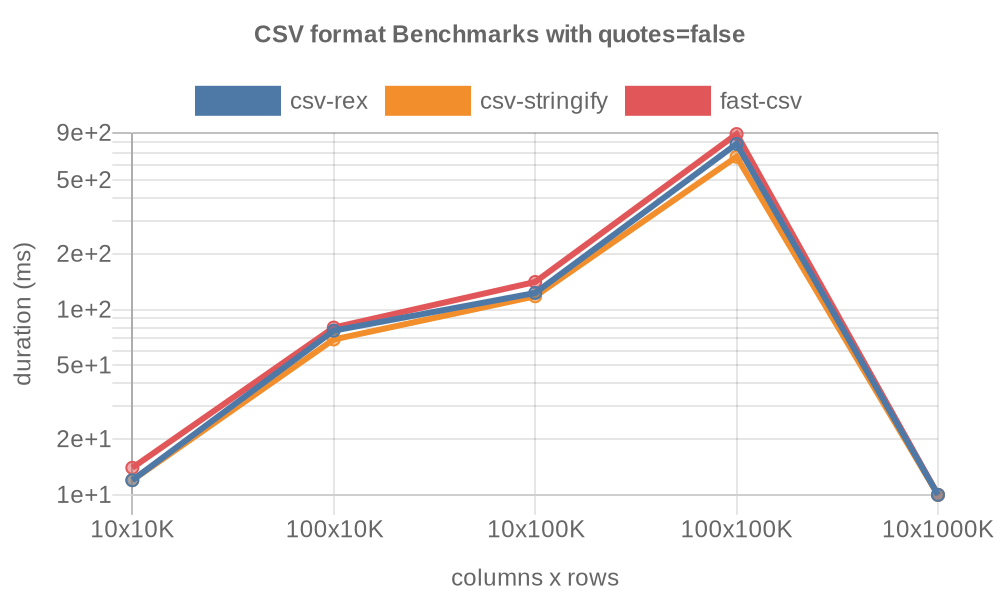
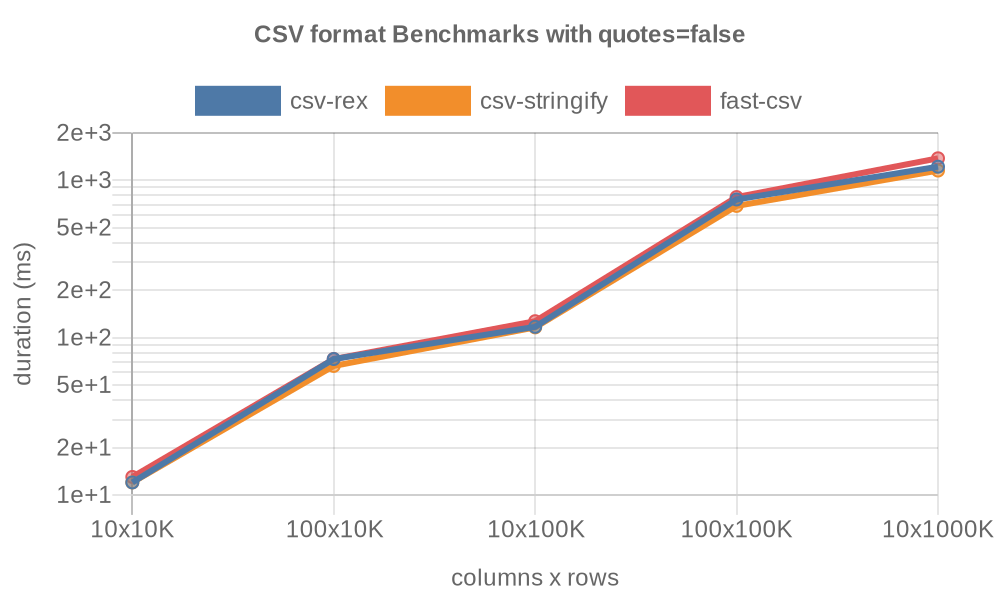
fix: graph inputs

Changed region(s): [[0.062, 0.21, 0.961, 0.81], [0.93, 0.81, 0.961, 0.84]]

diff --git a/index.js b/index.js
@@ -98,7 +98,9 @@ const run = async (sources, type, quotes = false) => {
       fill: false,
       data: []
     }
-    const {parse, format} = await import(`./packages/${source}/index.js`)
+    const engine = await import(`./packages/${source}/index.js`)
+    if (!engine[type]) continue
+    
     for (const { rows, columns, cycles } of tests) {
       let stream
       if (type === 'parse') {
@@ -106,25 +108,25 @@ const run = async (sources, type, quotes = false) => {
         await generateCSVFile({ readableFileName, columns, rows, quotes });
         stream = async () => pipeline([
           createReadStream(readableFileName),
-          parse()
+          engine.parse()
         ])
       } else if (type === 'format') {
         const arr = generateCSVArray({ columns, rows, quotes });
         stream = async () => pipeline([
           createReadableStream(arr),
-          format()
+          engine.format()
         ])
         //const writableFileName = join(tmpdir(), `${columns}x${rows}_${quotes ? 'quoted' : 'slim'}.csv`)
       }
       
       // Benchmark     
       const result = await benchmark(source, stream, { cycles, columns, rows });
-      dataset.data.push(result.toLocaleString())
+      dataset.data.push(result)
     }
     if (chart.data.datasets.length < 5) { 
       chart.data.datasets.push(dataset)
     }
-    table += `| **${dataset.label}** | ${dataset.data.join('ms | ')}ms \n`
+    table += `| **${dataset.label}** | ${dataset.data.map(result => result.toLocaleString()).join('ms | ')}ms \n`
   }
   
   // Save results
@@ -156,16 +158,54 @@ const run = async (sources, type, quotes = false) => {
 
 
 // Update README packages table
+const diff = (d) => {
+  const msPerMinute = 60 * 1000
+  const msPerHour = msPerMinute * 60
+  const msPerDay = msPerHour * 24
+  const msPerWeek = msPerDay * 7
+  const msPerMonth = msPerDay * 30
+  const msPerYear = msPerDay * 365.25
+  const elapsed = d - new Date()
+  const absElapsed = Math.abs(elapsed)
+  // if (absElapsed < msPerMinute) {
+  //   return [Math.round(elapsed / 1000), 'second']
+  // }
+  // if (absElapsed < msPerHour) {
+  //   return [Math.round(elapsed / msPerMinute), 'minute']
+  // }
+  // if (absElapsed < msPerDay) {
+  //   return [Math.round(elapsed / msPerHour), 'hour']
+  // }
+  if (absElapsed < msPerWeek * 2) {
+    return [Math.round(elapsed / msPerDay), 'day']
+  }
+  if (absElapsed < msPerMonth) {
+    return [Math.round(elapsed / msPerWeek), 'week']
+  }
+  if (absElapsed < msPerYear) {
+    return [Math.round(elapsed / msPerMonth), 'month']
+  }
+  return [Math.round(elapsed / msPerYear), 'year']
+}
+const rtf = new Intl.RelativeTimeFormat('en', {
+  localeMatcher: 'best fit',
+  numeric: 'always',
+  style: 'long'
+})
 const {dependencies} = await readFile(join(__dirname, './package.json')).then(data => JSON.parse(data))
-let table = `| Package | Version | Parse | Format \n`
-   table += `|---------|---------|-------|--------\n`
+let table = `| Package | Version | Published | Parse | Format \n`
+   table += `|---------|---------|-----------|-------|--------\n`
    const packages = new Set([...parseSources, ...formatSources])
    for (const pkg of packages) {
-      const {version} = await fetch(`https://registry.npmjs.org/${pkg}/latest`).then(res => res.json())
+      const repo = await fetch(`https://registry.npmjs.org/${pkg}`).then(res => res.json())
+      const version = repo['dist-tags'].latest
+      const created = new Date(repo.time[version])
+      const [value, unit] = diff(created)
+      const published = rtf.format(value, unit)
        const {parse, format} = await import(`./packages/${pkg}/index.js`)
        const {downloads} = await fetch(`https://api.npmjs.org/downloads/point/last-week/${pkg}`).then(res => res.json())
-     console.log(`${pkg}@${version} ${downloads.toLocaleString()}/week`)
-     table += `| [${pkg}](https://www.npmjs.com/package/${pkg}) | ${version} | ${!!parse ? 'Yes' : ''} | ${!!format ? 'Yes' : ''} \n`
+     console.log(`${pkg}@${version} published ${published}, ${downloads.toLocaleString()}/week`)
+     table += `| [${pkg}](https://www.npmjs.com/package/${pkg}) | ${version} | ${published} | ${!!parse ? 'Yes' : ''} | ${!!format ? 'Yes' : ''} \n`
    }
 await readFile(join(__dirname, `README.md`), { encoding: 'utf8' })
 .then(data => {

diff --git a/packages/papaparse/index.js b/packages/papaparse/index.js
@@ -1,6 +1,6 @@
 import Papa from "papaparse";
 
 export const parse = () => Papa.parse(Papa.NODE_STREAM_INPUT, {delimiter:",", newline:"\r\n", quoteChar:'"', header: false})
-export const format = () => Papa.unparse(Papa.NODE_STREAM_INPUT)
+export const format = false // () => Papa.unparse(Papa.NODE_STREAM_OUTPUT)
 
 export default { parse, format }

diff --git a/README.md b/README.md
@@ -3,15 +3,15 @@
 Benchmarks of popular CSV parsers and formatters:
 
 <!-- packages -->
-| Package | Version | Downloads | Parse | Format 
+| Package | Version | Published | Parse | Format 
 |---------|---------|-----------|-------|--------
-| [csv-rex](https://www.npmjs.com/package/csv-rex) | 0.3.0 | 36/week | Yes | Yes 
-| [papaparse](https://www.npmjs.com/package/papaparse) | 5.3.2 | 1,261,794/week | Yes | Yes 
-| [csv-parser](https://www.npmjs.com/package/csv-parser) | 3.0.0 | 630,666/week | Yes | Yes 
-| [csvtojson](https://www.npmjs.com/package/csvtojson) | 2.0.10 | 627,255/week | Yes |  
-| [csv-parse](https://www.npmjs.com/package/csv-parse) | 5.3.0 | 2,737,770/week | Yes |  
-| [fast-csv](https://www.npmjs.com/package/fast-csv) | 4.3.6 | 831,940/week | Yes | Yes 
-| [csv-stringify](https://www.npmjs.com/package/csv-stringify) | 6.2.0 | 1,937,082/week |  | Yes 
+| [csv-rex](https://www.npmjs.com/package/csv-rex) | 0.3.0 | 11 days ago | Yes | Yes 
+| [papaparse](https://www.npmjs.com/package/papaparse) | 5.3.2 | 5 months ago |  | Yes 
+| [csv-parser](https://www.npmjs.com/package/csv-parser) | 3.0.0 | 2 years ago | Yes | Yes 
+| [csvtojson](https://www.npmjs.com/package/csvtojson) | 2.0.10 | 3 years ago | Yes |  
+| [csv-parse](https://www.npmjs.com/package/csv-parse) | 5.3.0 | 4 weeks ago | Yes |  
+| [fast-csv](https://www.npmjs.com/package/fast-csv) | 4.3.6 | 2 years ago | Yes | Yes 
+| [csv-stringify](https://www.npmjs.com/package/csv-stringify) | 6.2.0 | 4 weeks ago |  | Yes 
 <!-- packages -->
 
 ## Tests
@@ -20,11 +20,11 @@ The tests run on generated data files with 10 - 100 columns and 10K - 1M rows, b
 <!-- tests -->
 | columns x rows | cycles 
 |----------------|--------
-| 10 x 10000 | 20 
-| 100 x 10000 | 10 
-| 10 x 100000 | 10 
-| 100 x 100000 | 5 
-| 10 x 1000000 | 5 
+| 10 x 10,000 | 20 
+| 100 x 10,000 | 10 
+| 10 x 100,000 | 10 
+| 100 x 100,000 | 5 
+| 10 x 1,000,000 | 5 
 <!-- tests -->
 
 ## Results 
@@ -36,12 +36,12 @@ Benchmarked on GitHub Actions.
 <!-- parse quotes=true -->
 | Package | 10x10K | 100x10K | 10x100K | 100x100K | 10x1000K 
 |---------|---|---|---|---|---
-| **csv-rex** | 15ms | 132ms | 138ms | 1,338ms | 1,417ms 
-| **papaparse** | 16ms | 141ms | 147ms | 1,431ms | 1,514ms 
-| **csv-parser** | 25ms | 236ms | 252ms | 2,477ms | 2,644ms 
-| **csvtojson** | 30ms | 267ms | 297ms | 2,699ms | 3,015ms 
-| **csv-parse** | 40ms | 353ms | 398ms | 3,681ms | 4,135ms 
-| **fast-csv** | 58ms | 536ms | 601ms | 5,570ms | 6,218ms 
+| **csv-rex** | 16ms | 136ms | 144ms | 1,384ms | 1,457ms 
+| **papaparse** | 16ms | 142ms | 149ms | 1,443ms | 1,523ms 
+| **csv-parser** | 25ms | 238ms | 255ms | 2,503ms | 2,665ms 
+| **csvtojson** | 32ms | 271ms | 298ms | 2,719ms | 3,045ms 
+| **csv-parse** | 39ms | 351ms | 397ms | 3,664ms | 4,123ms 
+| **fast-csv** | 58ms | 534ms | 600ms | 5,542ms | 6,216ms 
 <!-- parse quotes=true -->
 
 ![Non-Quoted CSV Parser Benchmarks](https://github.com/willfarrell/csv-benchmarks/raw/main/results/parse_quotes%3Dfalse.png)
@@ -49,12 +49,12 @@ Benchmarked on GitHub Actions.
 <!-- parse quotes=false -->
 | Package | 10x10K | 100x10K | 10x100K | 100x100K | 10x1000K 
 |---------|---|---|---|---|---
-| **csv-rex** | 10ms | 80ms | 85ms | 827ms | 873ms 
-| **papaparse** | 6ms | 30ms | 53ms | 293ms | 533ms 
-| **csv-parser** | 22ms | 208ms | 221ms | 2,192ms | 2,326ms 
-| **csvtojson** | 17ms | 156ms | 171ms | 1,554ms | 1,761ms 
-| **csv-parse** | 34ms | 321ms | 379ms | 3,378ms | 3,852ms 
-| **fast-csv** | 50ms | 461ms | 516ms | 4,839ms | 5,485ms 
+| **csv-rex** | 10ms | 80ms | 85ms | 828ms | 872ms 
+| **papaparse** | 6ms | 30ms | 53ms | 292ms | 535ms 
+| **csv-parser** | 21ms | 205ms | 222ms | 2,198ms | 2,324ms 
+| **csvtojson** | 17ms | 154ms | 170ms | 1,553ms | 1,753ms 
+| **csv-parse** | 34ms | 316ms | 359ms | 3,350ms | 3,809ms 
+| **fast-csv** | 49ms | 460ms | 517ms | 4,839ms | 5,450ms 
 <!-- parse quotes=false -->
 
 ### Format
@@ -64,9 +64,9 @@ Benchmarked on GitHub Actions.
 <!-- format quotes=false -->
 | Package | 10x10K | 100x10K | 10x100K | 100x100K | 10x1000K 
 |---------|---|---|---|---|---
-| **csv-rex** | 12ms | 77ms | 123ms | 784ms | 1,287ms 
-| **csv-stringify** | 12ms | 69ms | 118ms | 668ms | 1,180ms 
-| **fast-csv** | 14ms | 80ms | 141ms | 886ms | 1,433ms 
+| **csv-rex** | 12ms | 73ms | 117ms | 754ms | 1,218ms 
+| **csv-stringify** | 12ms | 66ms | 116ms | 686ms | 1,151ms 
+| **fast-csv** | 13ms | 73ms | 127ms | 781ms | 1,377ms 
 <!-- format quotes=false -->
 
 ## Roadmap

diff --git a/results/parse_quotes=true.md b/results/parse_quotes=true.md
@@ -1,8 +1,8 @@
 | Package | 10x10K | 100x10K | 10x100K | 100x100K | 10x1000K 
 |---------|---|---|---|---|---
-| **csv-rex** | 15ms | 132ms | 138ms | 1,338ms | 1,417ms 
-| **papaparse** | 16ms | 141ms | 147ms | 1,431ms | 1,514ms 
-| **csv-parser** | 25ms | 236ms | 252ms | 2,477ms | 2,644ms 
-| **csvtojson** | 30ms | 267ms | 297ms | 2,699ms | 3,015ms 
-| **csv-parse** | 40ms | 353ms | 398ms | 3,681ms | 4,135ms 
-| **fast-csv** | 58ms | 536ms | 601ms | 5,570ms | 6,218ms 
+| **csv-rex** | 16ms | 136ms | 144ms | 1,384ms | 1,457ms 
+| **papaparse** | 16ms | 142ms | 149ms | 1,443ms | 1,523ms 
+| **csv-parser** | 25ms | 238ms | 255ms | 2,503ms | 2,665ms 
+| **csvtojson** | 32ms | 271ms | 298ms | 2,719ms | 3,045ms 
+| **csv-parse** | 39ms | 351ms | 397ms | 3,664ms | 4,123ms 
+| **fast-csv** | 58ms | 534ms | 600ms | 5,542ms | 6,216ms 

diff --git a/results/parse_quotes=false.md b/results/parse_quotes=false.md
@@ -1,8 +1,8 @@
 | Package | 10x10K | 100x10K | 10x100K | 100x100K | 10x1000K 
 |---------|---|---|---|---|---
-| **csv-rex** | 10ms | 80ms | 85ms | 827ms | 873ms 
-| **papaparse** | 6ms | 30ms | 53ms | 293ms | 533ms 
-| **csv-parser** | 22ms | 208ms | 221ms | 2,192ms | 2,326ms 
-| **csvtojson** | 17ms | 156ms | 171ms | 1,554ms | 1,761ms 
-| **csv-parse** | 34ms | 321ms | 379ms | 3,378ms | 3,852ms 
-| **fast-csv** | 50ms | 461ms | 516ms | 4,839ms | 5,485ms 
+| **csv-rex** | 10ms | 80ms | 85ms | 828ms | 872ms 
+| **papaparse** | 6ms | 30ms | 53ms | 292ms | 535ms 
+| **csv-parser** | 21ms | 205ms | 222ms | 2,198ms | 2,324ms 
+| **csvtojson** | 17ms | 154ms | 170ms | 1,553ms | 1,753ms 
+| **csv-parse** | 34ms | 316ms | 359ms | 3,350ms | 3,809ms 
+| **fast-csv** | 49ms | 460ms | 517ms | 4,839ms | 5,450ms 

diff --git a/results/format_quotes=false.md b/results/format_quotes=false.md
@@ -1,5 +1,5 @@
 | Package | 10x10K | 100x10K | 10x100K | 100x100K | 10x1000K 
 |---------|---|---|---|---|---
-| **csv-rex** | 12ms | 77ms | 123ms | 784ms | 1,287ms 
-| **csv-stringify** | 12ms | 69ms | 118ms | 668ms | 1,180ms 
-| **fast-csv** | 14ms | 80ms | 141ms | 886ms | 1,433ms 
+| **csv-rex** | 12ms | 73ms | 117ms | 754ms | 1,218ms 
+| **csv-stringify** | 12ms | 66ms | 116ms | 686ms | 1,151ms 
+| **fast-csv** | 13ms | 73ms | 127ms | 781ms | 1,377ms 
